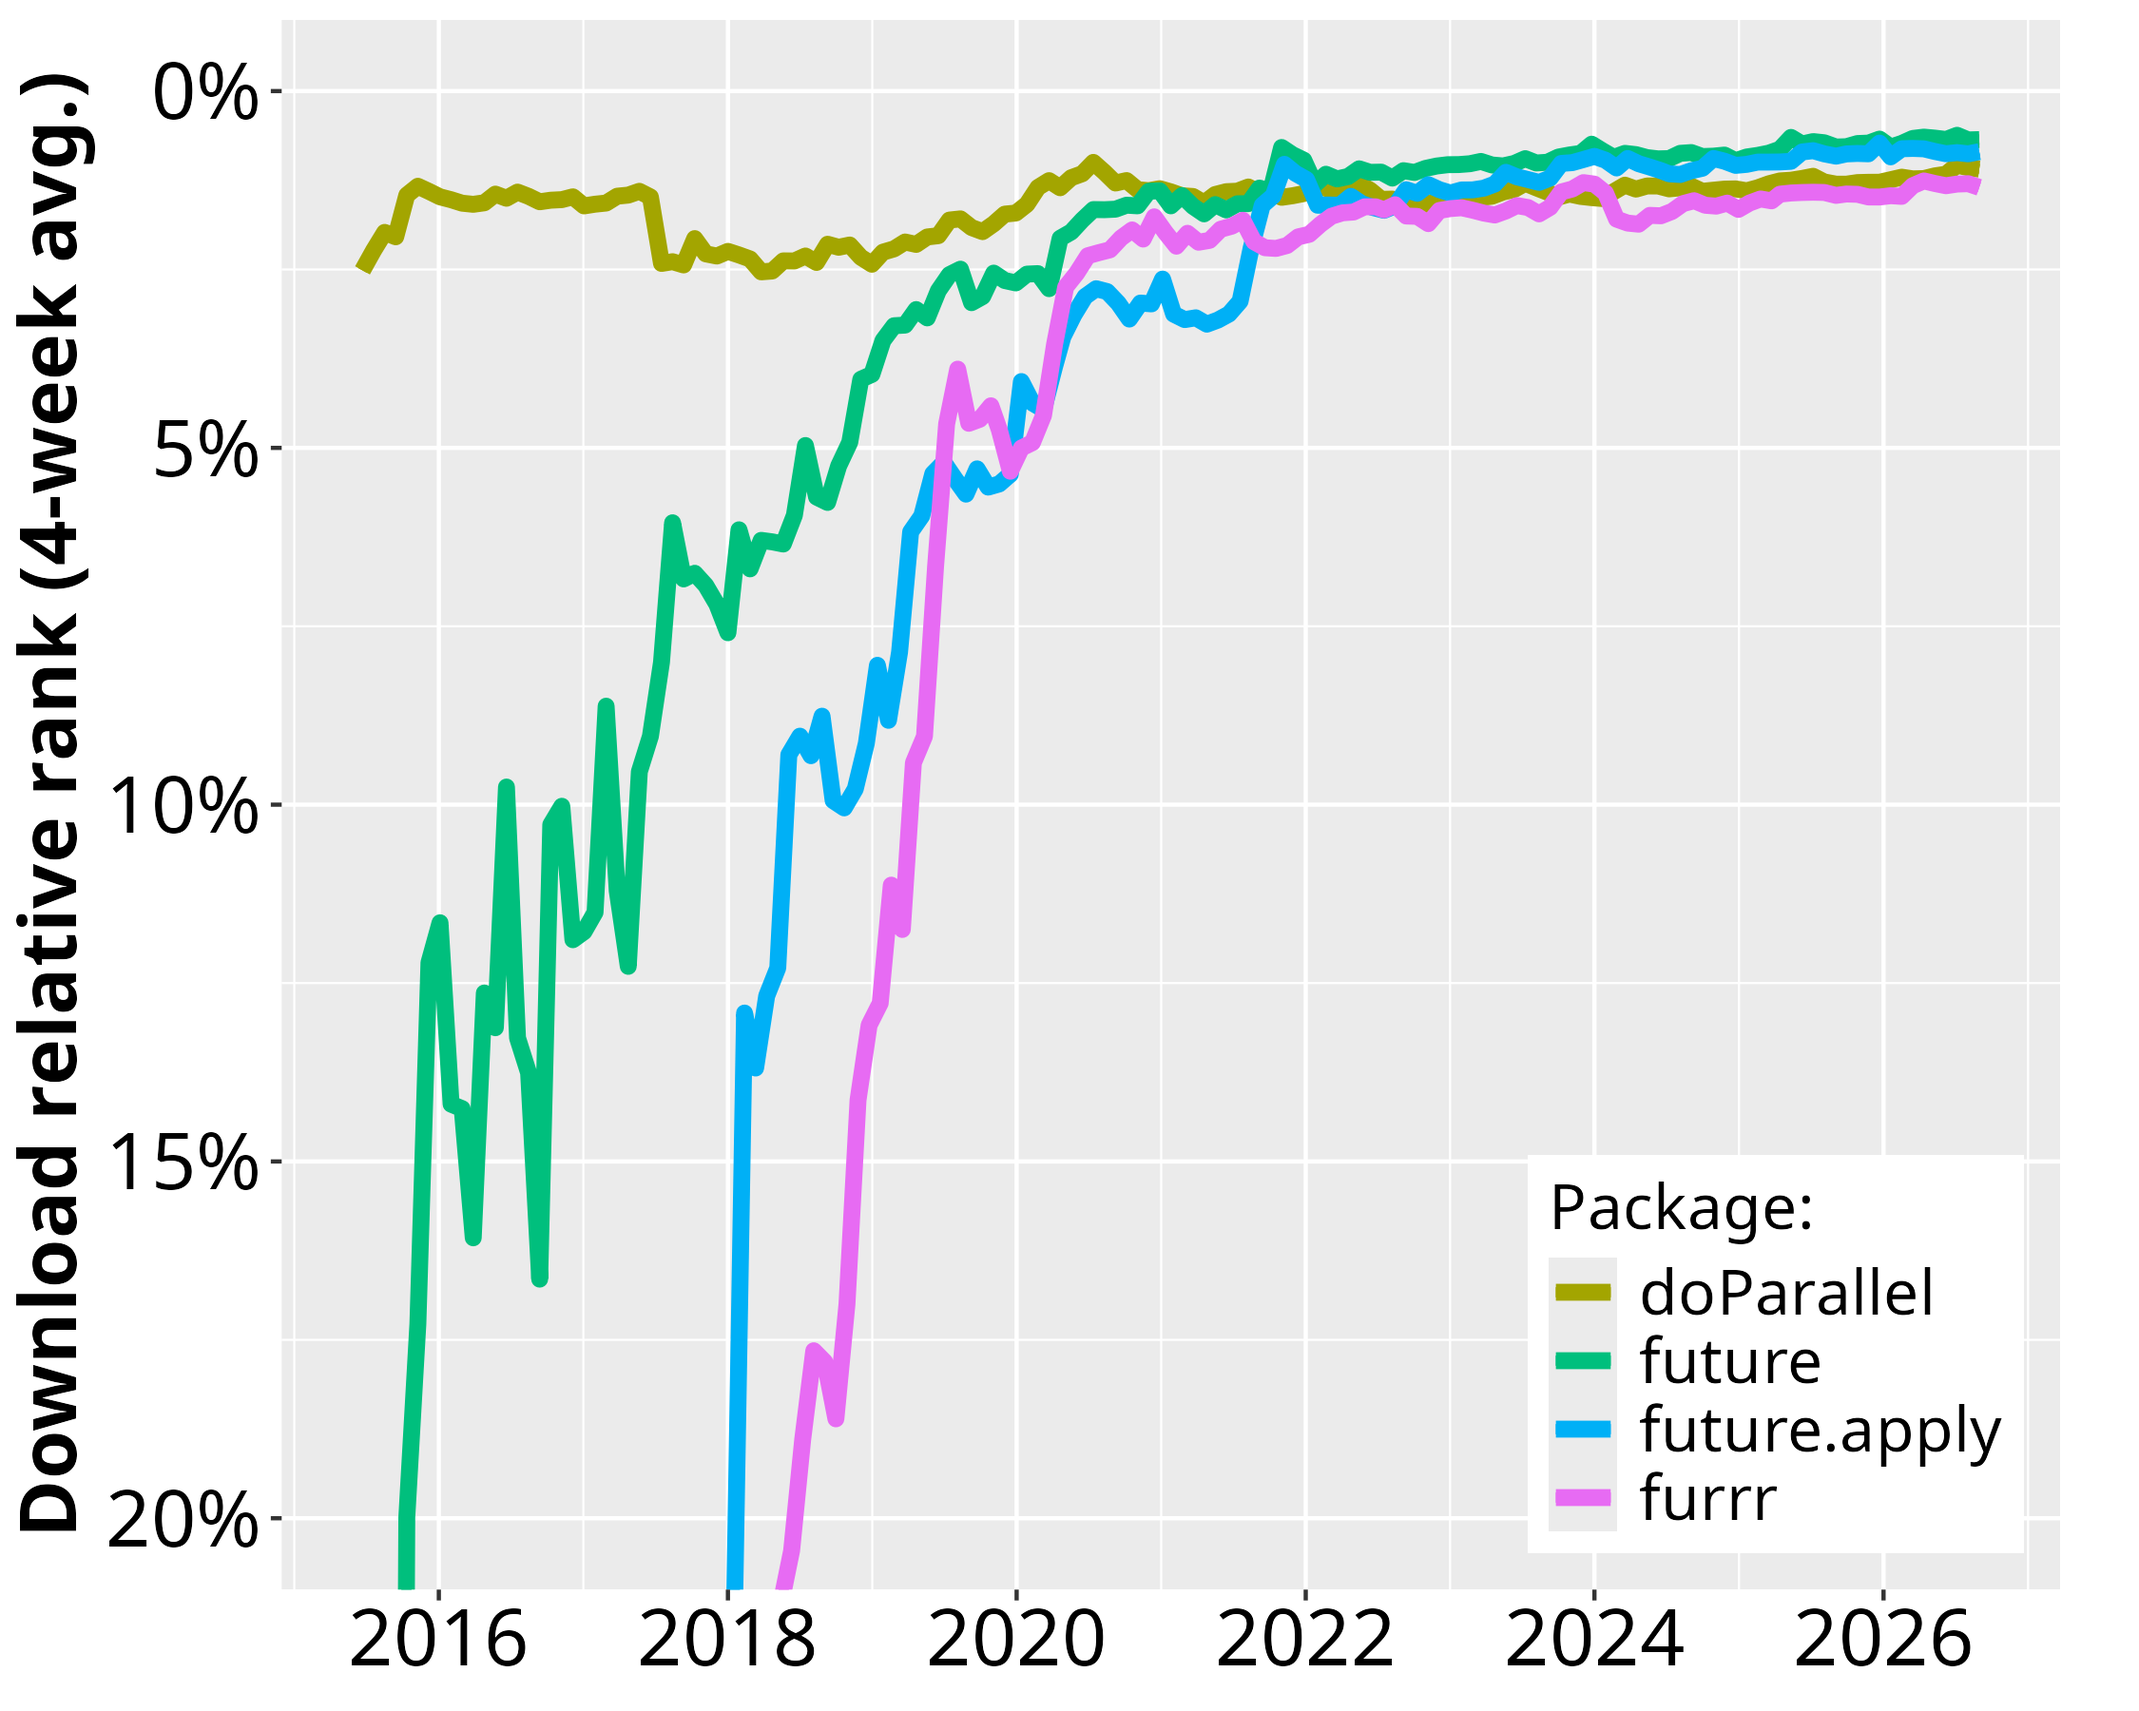
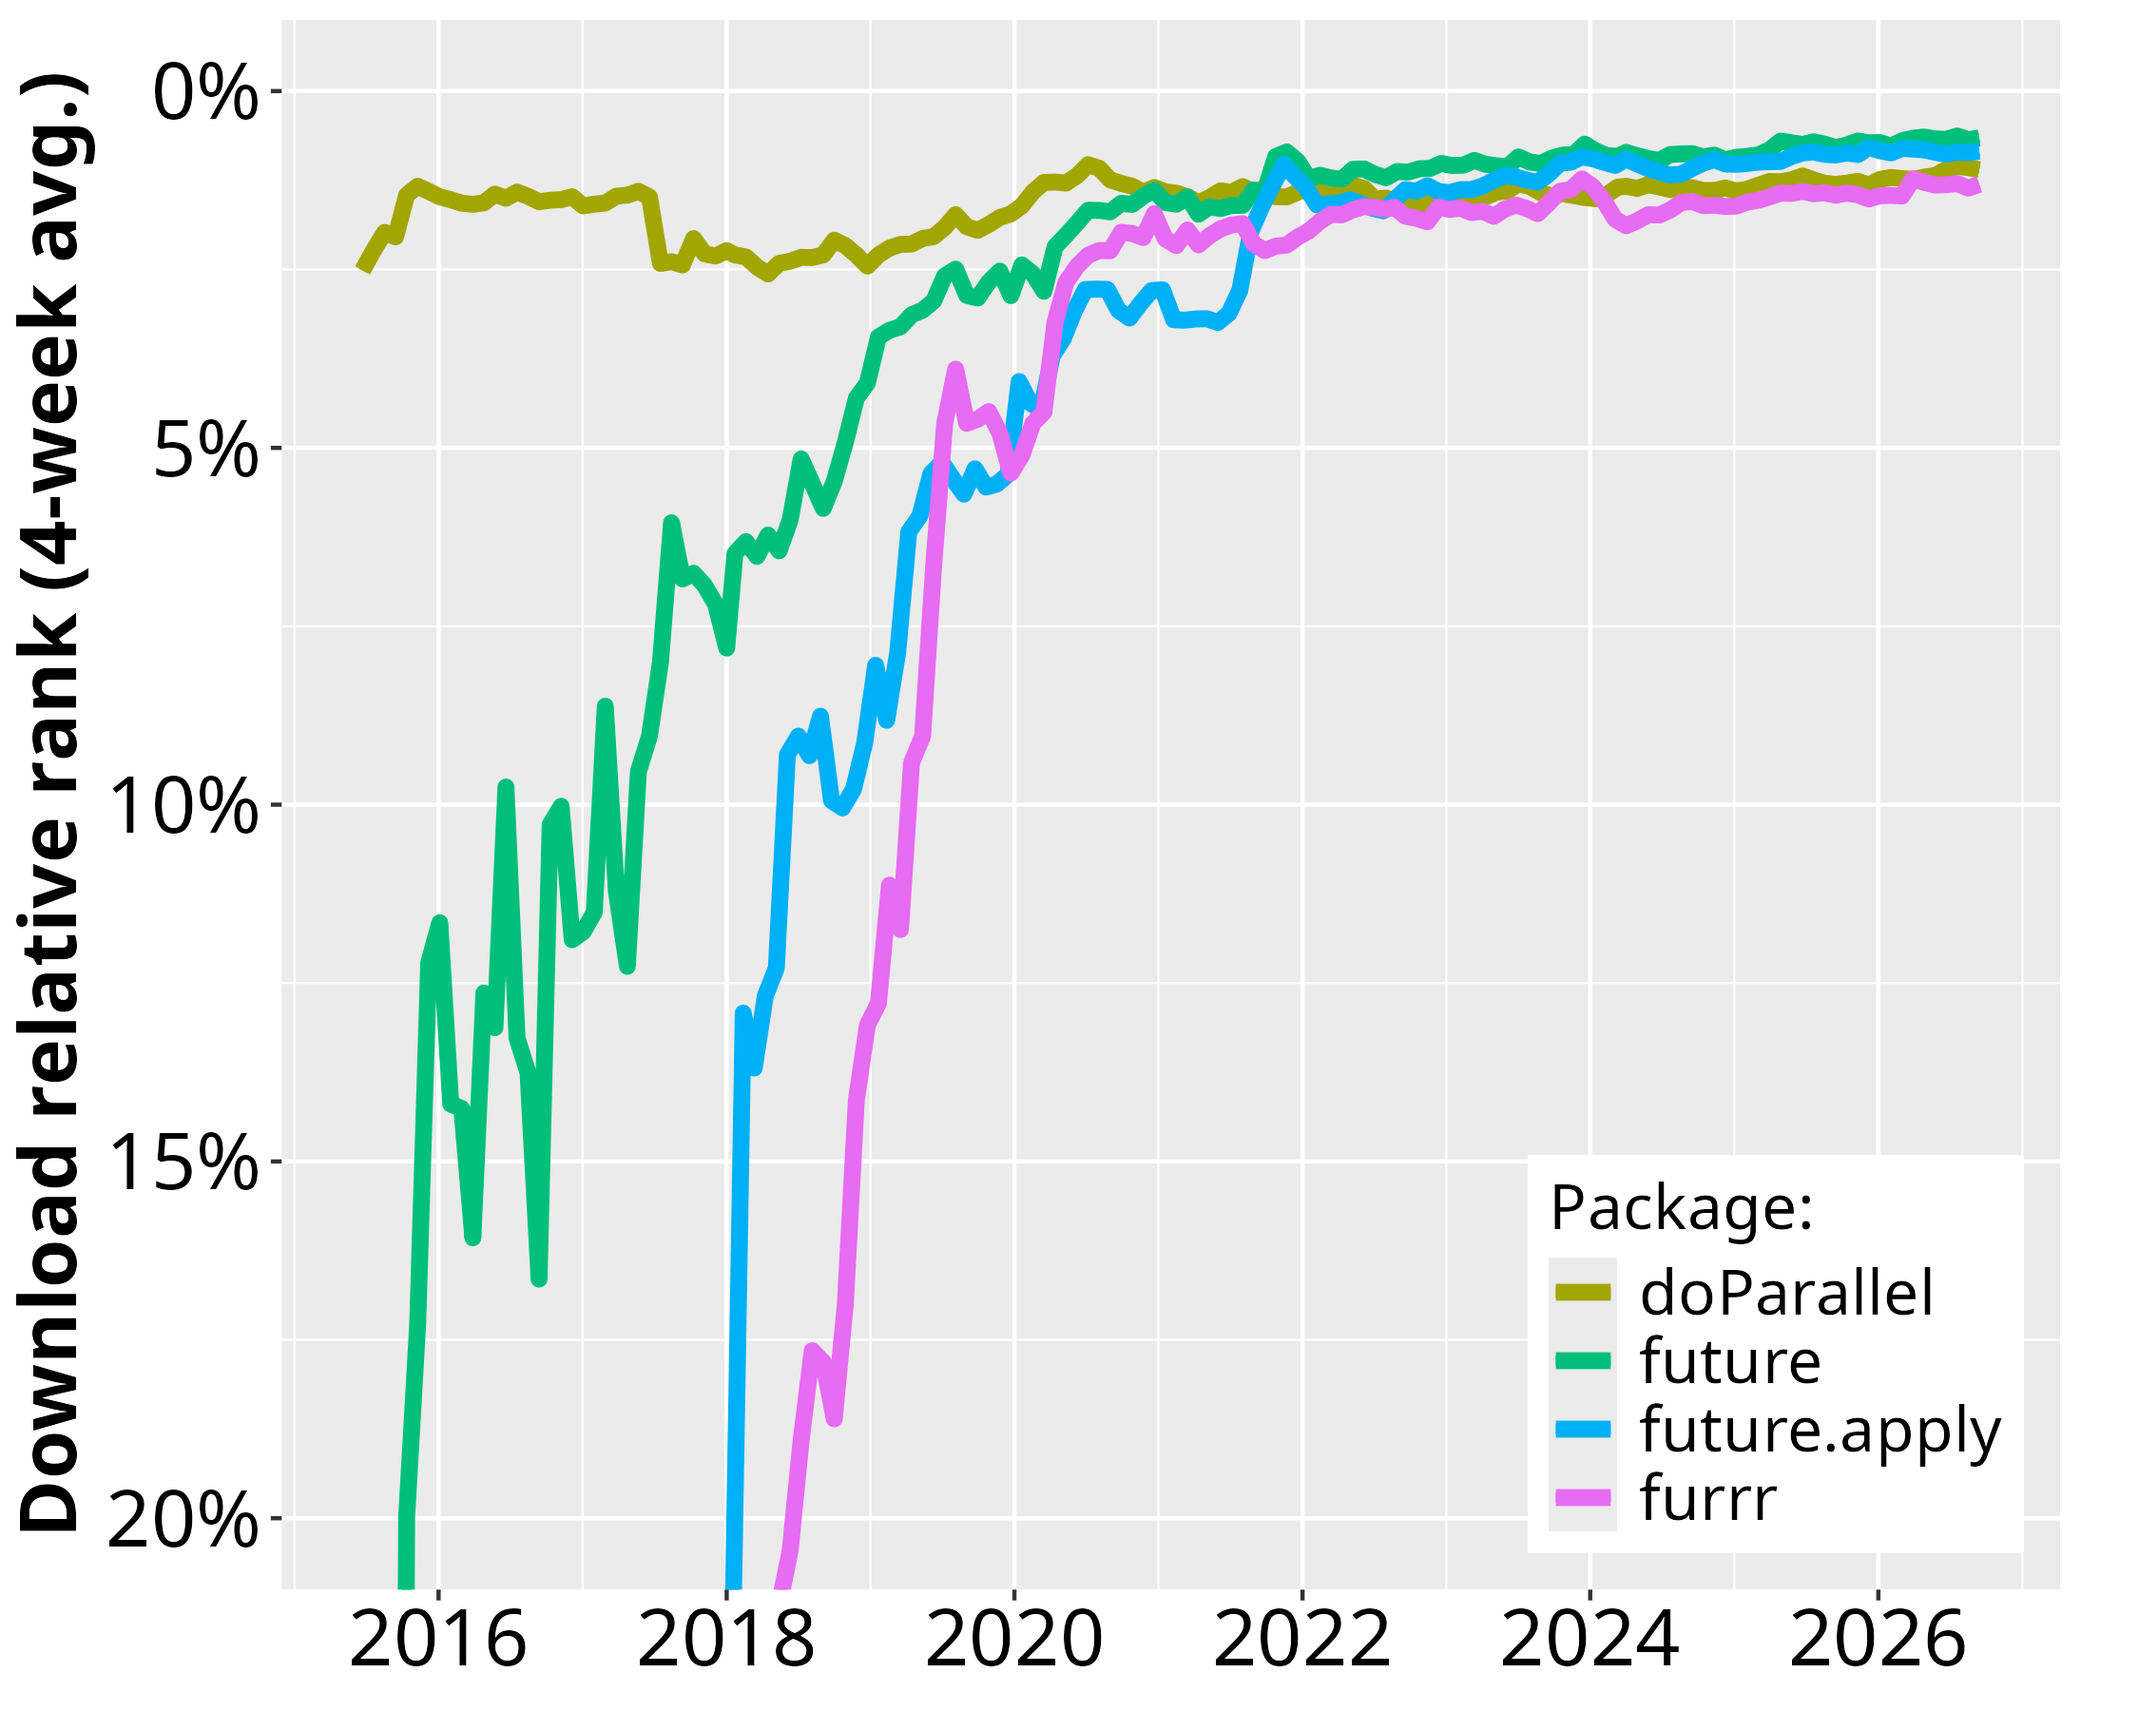
refresh

diff --git a/docs/usage.html b/docs/usage.html
@@ -579,7 +579,7 @@ gtag('config', 'G-SB3EQSD9FR', { 'anonymize_ip': true});
 </section>
 <section id="cran-statistics" class="level1">
 <h1>CRAN Statistics</h1>
-<p>Since the first CRAN release of <strong>future</strong> in June 2015, its uptake among end-users and package developers has grown steadily. As of October 2026, <strong>future</strong> is among the top-0.7% most downloaded packages on CRAN (Figure 1) and there are ~550 packages (+40%/year) on CRAN that list it as a direct dependency (Figure 2). For map-reduce parallelization packages <strong>future.apply</strong> (top-0.8% most downloaded) and <strong>furrr</strong> (top 1.3%), the corresponding number of packages is ~325 (+50%/year) and ~195 (+30%/year), respectively.</p>
+<p>Since the first CRAN release of <strong>future</strong> in June 2015, its uptake among end-users and package developers has grown steadily. As of October 2026, <strong>future</strong> is among the top-0.7% most downloaded packages on CRAN (Figure 1) and there are ~560 packages (+40%/year) on CRAN that list it as a direct dependency (Figure 2). For map-reduce parallelization packages <strong>future.apply</strong> (top-0.8% most downloaded) and <strong>furrr</strong> (top 1.3%), the corresponding number of packages is ~325 (+50%/year) and ~195 (+30%/year), respectively.</p>
 <p>If we consider recursive dependencies too, that is, packages that need (depends or imports) the <strong>future</strong> package either directly or indirectly via another package, then ~1,300 (5.1%) of all ~25,300 CRAN packages rely on the future framework for processing (October 2026).</p>
 <!--
 repos <- getOption("repos")
@@ -588,8 +588,8 @@ db <- as.data.frame(available.packages(repos = repos))
 all_pkgs <- unique(db$Package)
 n_all <- length(all_pkgs)
 message("Number of packages: ", n_all)
-## Number of packages: 25291 (CRAN only)
-## Number of packages: 27675 (CRAN+Bioconductor)
+## Number of packages: 25284 (CRAN only)
+## Number of packages: 27669 (CRAN+Bioconductor)
 
 pkg <- "future"
 
@@ -601,8 +601,8 @@ first <- tools::package_dependencies(
 first <- intersect(first, all_pkgs)
 n <- length(first)
 message(sprintf("Direct reverse dependencies: %d (%.1f%%) of %d",  n, 100*n/n_all, n_all))
-## Direct reverse dependencies: 555 (2.2%) of 25291 (CRAN only)
-## Direct reverse dependencies: 580 (2.1%) of 27675 (CRAN+Bioconductor)
+## Direct reverse dependencies: 561 (2.2%) of 25284 (CRAN only)
+## Direct reverse dependencies: 586 (2.1%) of 27669 (CRAN+Bioconductor)
 
 ## Hard reverse deps ("needs")
 hard <- tools::package_dependencies(
@@ -611,8 +611,8 @@ hard <- tools::package_dependencies(
 )[[pkg]]
 n <- length(hard)
 message(sprintf("Hard reverse dependencies: %d (%.1f%%) of %d",  n, 100*n/n_all, n_all))
-## Hard reverse dependencies: 1298 (5.1%) of 25291 (CRAN only)
-## Hard reverse dependencies: 1445 (5.2%) of 27675 (CRAN+Bioconductor)
+## Hard reverse dependencies: 1297 (5.1%) of 25284 (CRAN only)
+## Hard reverse dependencies: 1444 (5.2%) of 27669 (CRAN+Bioconductor)
 
 ## All, incl. Suggests (inflates; what you computed)
 alld <- tools::package_dependencies(
@@ -622,8 +622,8 @@ alld <- tools::package_dependencies(
 alld <- intersect(alld, all_pkgs)
 n <- length(alld)
 message(sprintf("All (incl. Suggests) reverse dependencies: %d (%.1f%%) of %d",  n, 100*n/n_all, n_all))
-## All (incl. Suggests) reverse dependencies: 23160 (91.6%) of 25291 (CRAN only)
-## All (incl. Suggests) reverse dependencies: 25517 (92.2%) of 27675 (CRAN+Bioconductor)
+## All (incl. Suggests) reverse dependencies: 23168 (91.6%) of 25284 (CRAN only)
+## All (incl. Suggests) reverse dependencies: 25525 (92.3%) of 27669 (CRAN+Bioconductor)
 -->
 <div class="quarto-figure quarto-figure-center">
 <figure class="figure">
@@ -638,7 +638,7 @@ message(sprintf("All (incl. Suggests) reverse dependencies: %d (%.1f%%) of %d", 
 <div class="quarto-layout-cell" style="flex-basis: 50.0%;justify-content: flex-start;">
 <div class="quarto-figure quarto-figure-center">
 <figure class="figure">
-<p><img src="figures/revdep_over_time_on_CRAN.png" class="img-fluid figure-img" alt="A line chart showing the growth in the number of reverse dependencies on CRAN for three R packages, 'future', 'future.apply', and 'furrr', from 2015 to 2026. The y-axis ranges from 0 to about 550 dependencies. The 'future' package (green) rises steeply after 2018 and reaches 550 by late 2026; 'future.apply' (blue) grows steadily to 325; and 'furrr' (purple) follows a similar but slightly slower trajectory, ending near 195."></p>
+<p><img src="figures/revdep_over_time_on_CRAN.png" class="img-fluid figure-img" alt="A line chart showing the growth in the number of reverse dependencies on CRAN for three R packages, 'future', 'future.apply', and 'furrr', from 2015 to 2026. The y-axis ranges from 0 to about 560 dependencies. The 'future' package (green) rises steeply after 2018 and reaches 560 by late 2026; 'future.apply' (blue) grows steadily to 325; and 'furrr' (purple) follows a similar but slightly slower trajectory, ending near 195."></p>
 <figcaption>Package counts on the linear scale.</figcaption>
 </figure>
 </div>
@@ -646,7 +646,7 @@ message(sprintf("All (incl. Suggests) reverse dependencies: %d (%.1f%%) of %d", 
 <div class="quarto-layout-cell" style="flex-basis: 50.0%;justify-content: flex-start;">
 <div class="quarto-figure quarto-figure-center">
 <figure class="figure">
-<p><img src="figures/revdep_over_time_on_CRAN-log.png" class="img-fluid figure-img" alt="A logarithmic-scale line chart comparing CRAN reverse-dependency growth for 'doParallel', 'future', 'future.apply', and 'furrr' from 2015 to 2026. The y-axis spans roughly 10 to 1,000 dependencies. 'doParallel' (olive) leads throughout, rising from 90 to about 850, where it has leveled off since 2025. 'future' (green) increases from a few dependencies in 2015 to 550 by late 2026. 'future.apply' (blue) and 'furrr' (purple) start around 2018 and reach 325 and 195, respectively."></p>
+<p><img src="figures/revdep_over_time_on_CRAN-log.png" class="img-fluid figure-img" alt="A logarithmic-scale line chart comparing CRAN reverse-dependency growth for 'doParallel', 'future', 'future.apply', and 'furrr' from 2015 to 2026. The y-axis spans roughly 10 to 1,000 dependencies. 'doParallel' (olive) leads throughout, rising from 90 to about 850, where it has leveled off since 2025. 'future' (green) increases from a few dependencies in 2015 to 560 by late 2026. 'future.apply' (blue) and 'furrr' (purple) start around 2018 and reach 325 and 195, respectively."></p>
 <figcaption>Package counts on the logarithmic scale.</figcaption>
 </figure>
 </div>
